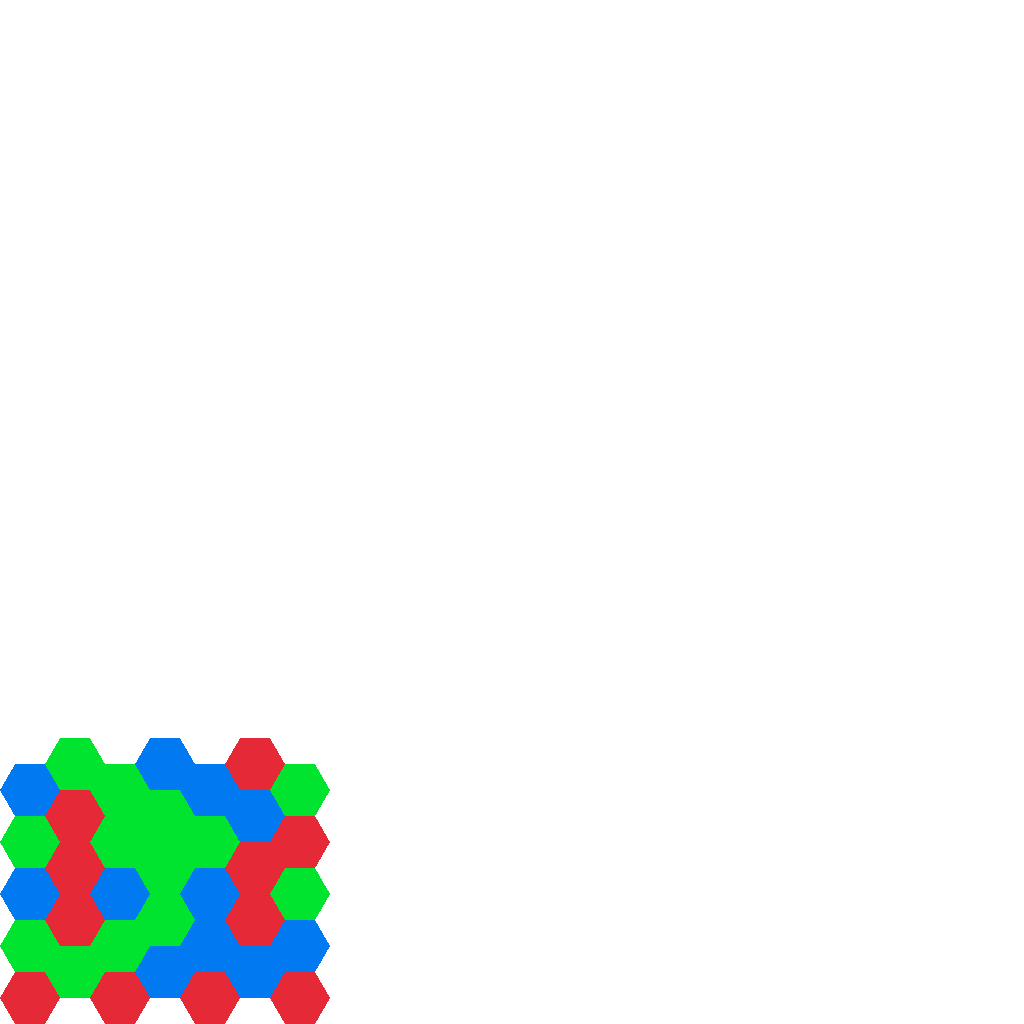
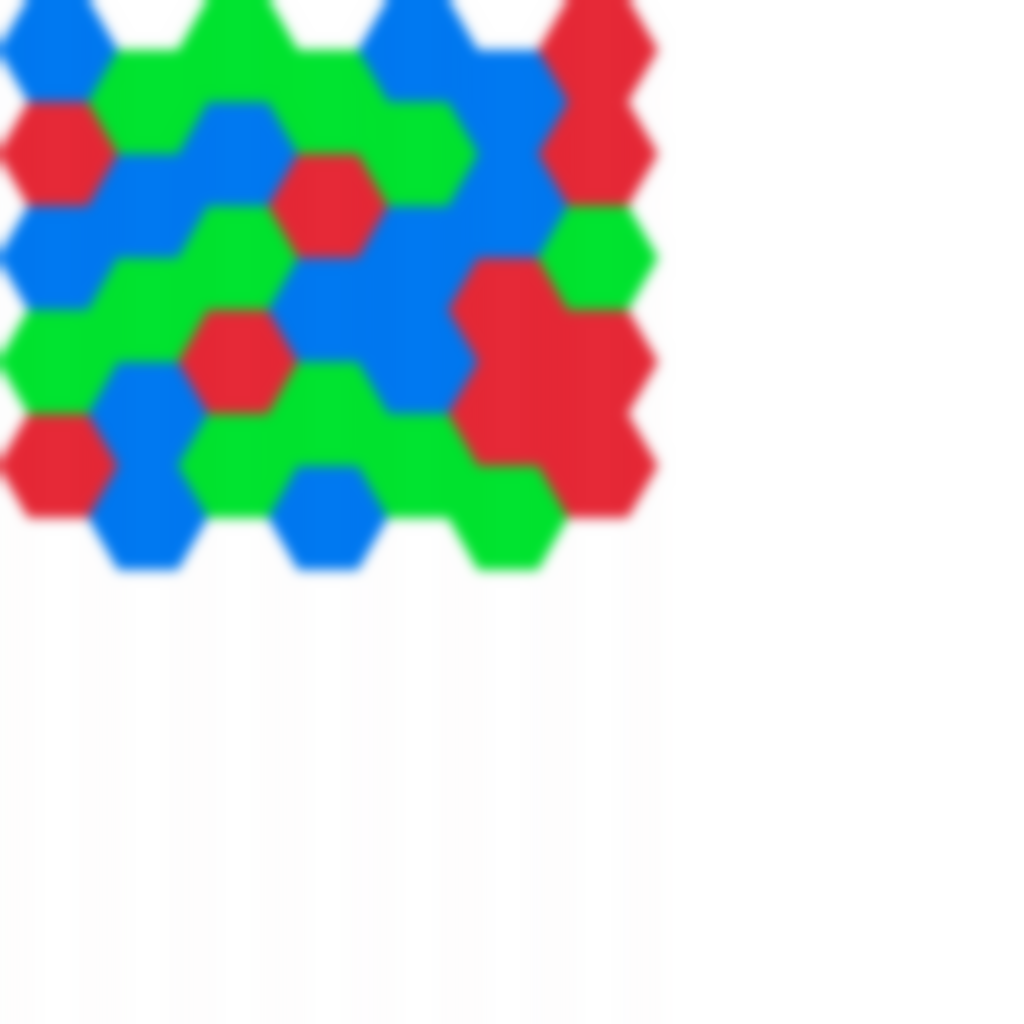
finished coloring part

diff --git a/sample/game/main.cpp b/sample/game/main.cpp
@@ -382,8 +382,8 @@ int main ()
 	// here we can change Image for Terraing gen
 	// --------------------------------------------------------------------
 
-	//Image img = LoadImage("../sample/resources/terrain/terrain.png");
-	Image img = LoadImage("../sample/map_drawer/painting.png");
+	Image img = LoadImage("../sample/resources/terrain/terrain.png");
+	//Image img = LoadImage("../sample/map_drawer/painting.png");
 	sector.SetupImage(img);
 	//UnloadImage(img);
 
@@ -405,7 +405,7 @@ int main ()
 
 	UploadMesh(&mesh, false);
 
-	Texture baseTexture = LoadTexture("../sample/resources/terrain/sand.png");
+	Texture baseTexture = LoadTexture("../sample/resources/terrain/dirt.png");
 	GenTextureMipmaps(&baseTexture);
 	SetTextureFilter(baseTexture, TEXTURE_FILTER_TRILINEAR);
 
@@ -413,15 +413,16 @@ int main ()
     GenTextureMipmaps(&texture1);
     SetTextureFilter(texture1, TEXTURE_FILTER_TRILINEAR);
 
-    Texture texture2 = LoadTexture("../sample/resources/terrain/mud.png");
+    Texture texture2 = LoadTexture("../sample/resources/terrain/sand.png");
     GenTextureMipmaps(&texture2);
     SetTextureFilter(texture2, TEXTURE_FILTER_TRILINEAR);
 
-    Texture texture3 = LoadTexture("../sample/resources/terrain/dirt.png");
+    Texture texture3 = LoadTexture("../sample/resources/terrain/mud.png");
     GenTextureMipmaps(&texture3);
     SetTextureFilter(texture3, TEXTURE_FILTER_TRILINEAR);
 
-    Texture maskTexture = LoadTexture("../sample/resources/terrain/mask.png");
+    //Texture maskTexture = LoadTexture("../sample/resources/terrain/mask.png");
+    Texture maskTexture = LoadTexture("../sample/map_drawer/painting.png");
 	SetTextureFilter(maskTexture, TEXTURE_FILTER_BILINEAR);
  
 	rlFPCamera viewCamera;

diff --git a/sample/map_drawer/drawer.cpp b/sample/map_drawer/drawer.cpp
@@ -60,14 +60,14 @@ int main() {
 
     // Begin drawing to the texture
     BeginTextureMode(target);
-    ClearBackground(BLANK);
+    ClearBackground(WHITE);
 
     // all changes in algo only between such lines
     //-------------------------------------------------------------------
 
     int numRows = 5;
     int numCols = 7;
-    float hexSize = 30.0; // Adjust the size of the hexes
+    float hexSize = 60.0; // Adjust the size of the hexes
 
     Grid hexGrid = 
             CalculateHexGridPositions(numRows, numCols, hexSize);
@@ -99,8 +99,8 @@ int main() {
 
     // Export the texture as a PNG file
     Image image = LoadImageFromTexture(target.texture);
-    //ImageFlipVertical(&image);
-    //ImageBlurGaussian(&image, 10);
+    ImageFlipVertical(&image);
+    ImageBlurGaussian(&image, 5);
     //ImageColorGrayscale(&image);
     ExportImage(image, "../sample/map_drawer/painting.png");
     UnloadImage(image);
